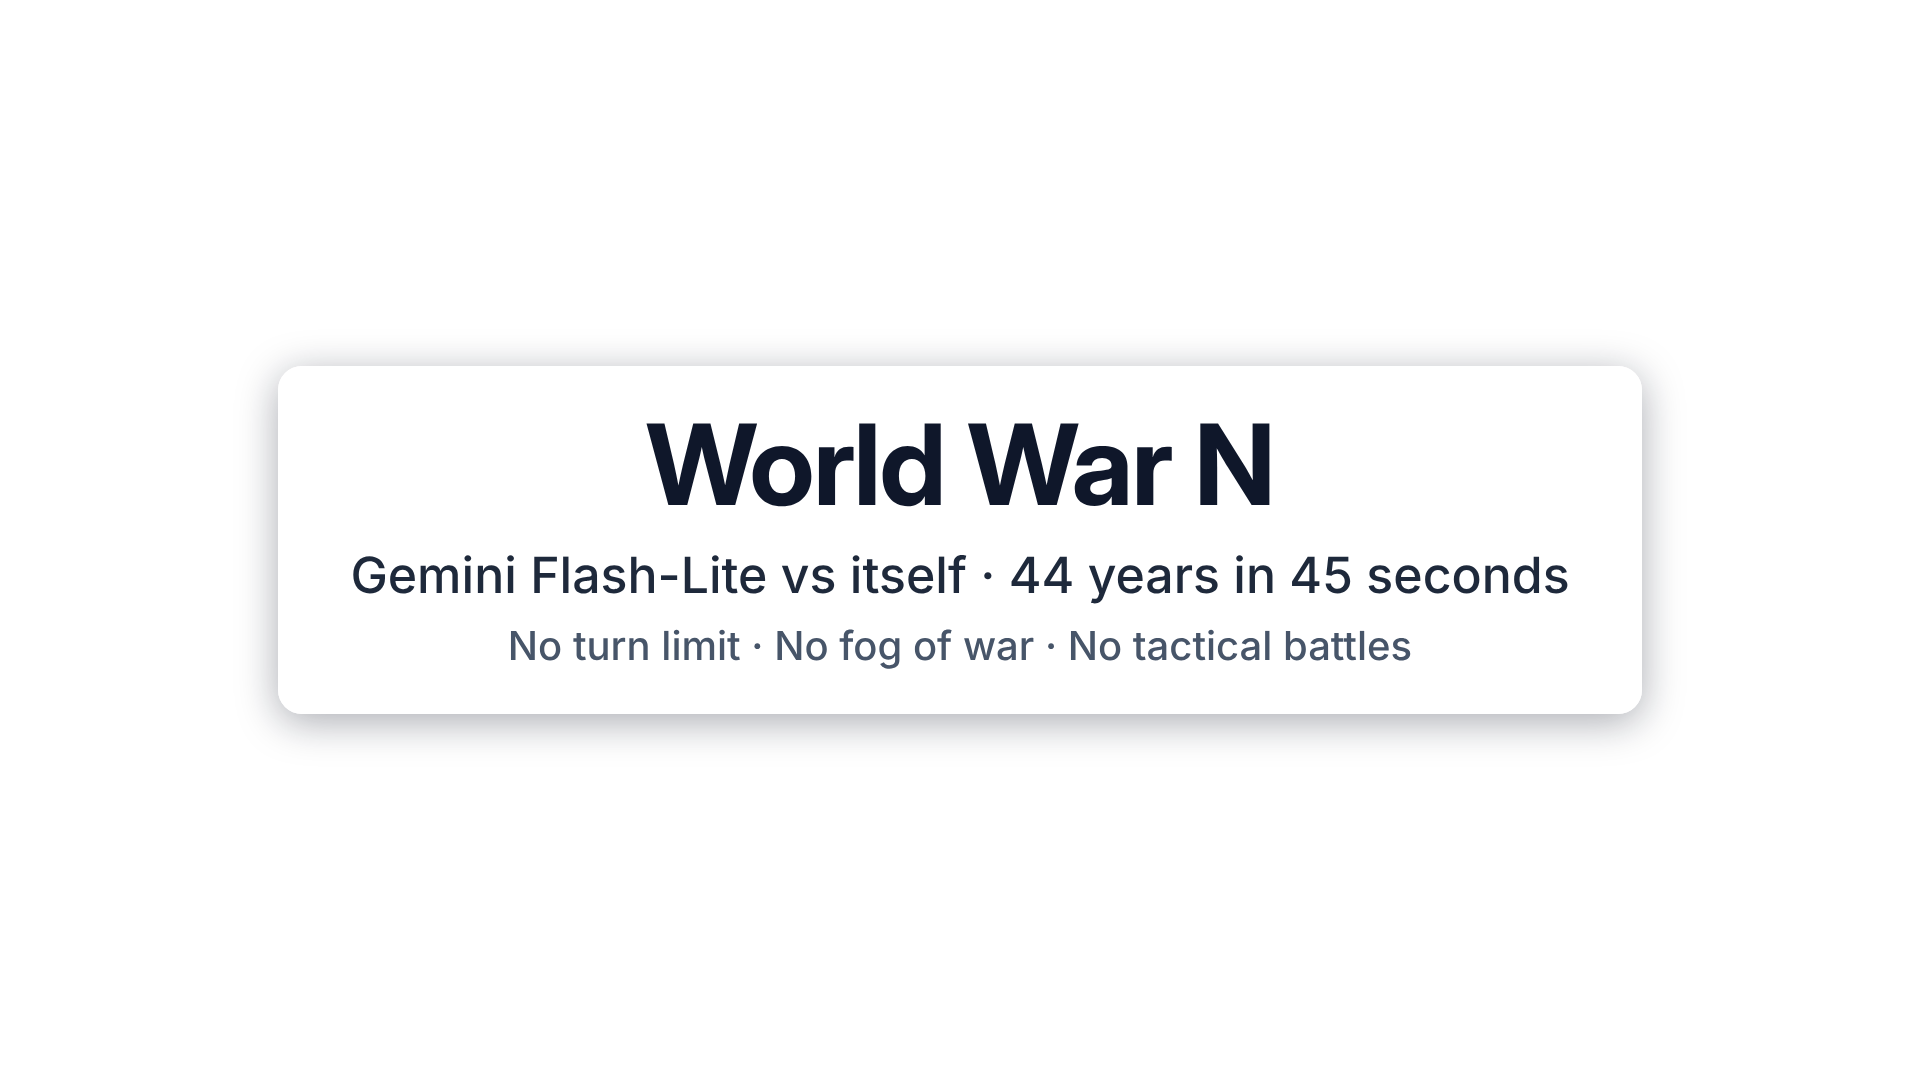
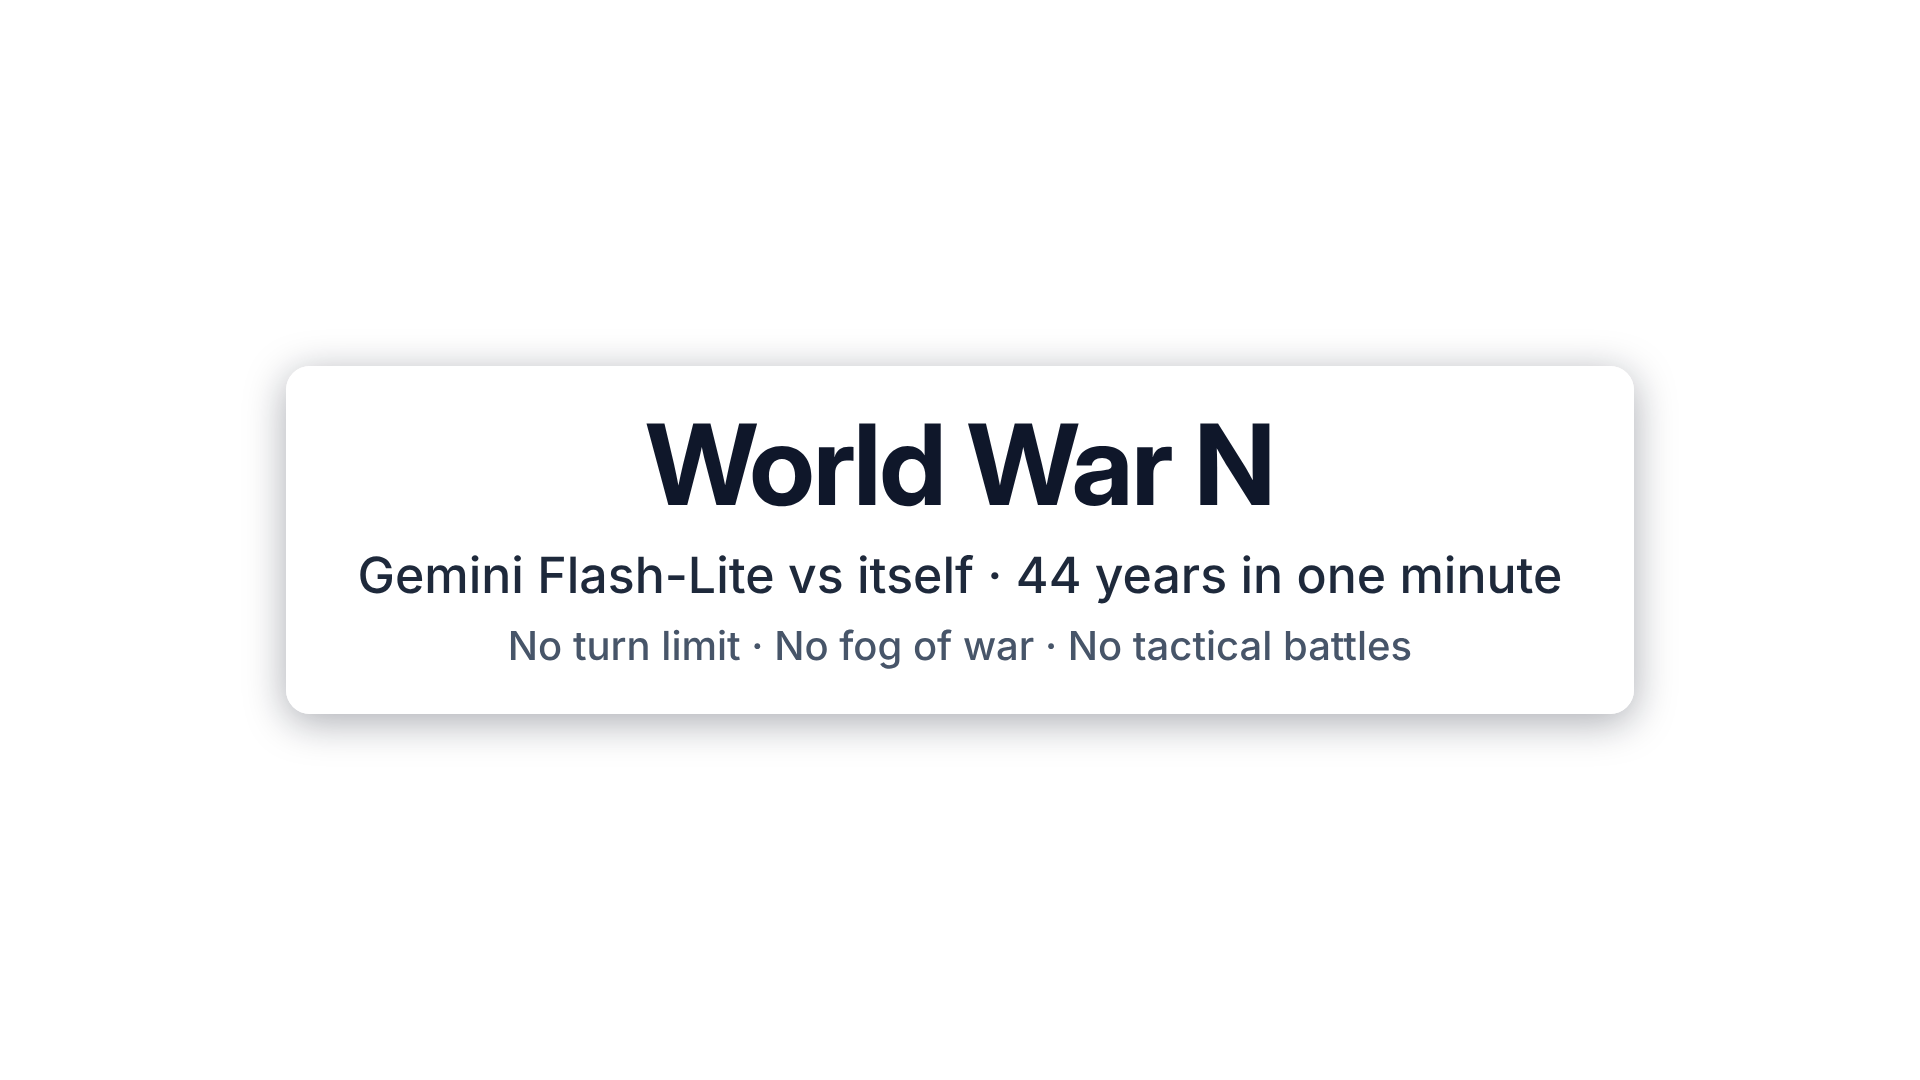
Script updates.

Changed region(s): [[0.1875, 0.5194, 0.8125, 0.55], [0.8438, 0.3667, 0.875, 0.6417], [0.125, 0.3667, 0.1562, 0.6417]]

diff --git a/scripts/match_video/titles/title_overlay_world_war_n.html b/scripts/match_video/titles/title_overlay_world_war_n.html
@@ -7,6 +7,6 @@ html,body{margin:0;width:1920px;height:1080px;background:transparent}
 .r{font-family:'Inter',sans-serif;font-weight:500;font-size:40px;color:#475569;margin-top:16px;white-space:nowrap}
 </style></head><body><div class="wrap"><div class="panel">
 <div class="h">World War N</div>
-<div class="s">Gemini Flash-Lite vs itself · 44 years in 45 seconds</div>
+<div class="s">Gemini Flash-Lite vs itself · 44 years in one minute</div>
 <div class="r">No turn limit · No fog of war · No tactical battles</div>
 </div></div></body></html>

diff --git a/scripts/match_video/keep_plan.py b/scripts/match_video/keep_plan.py
@@ -232,9 +232,16 @@ def build_keep_filter(
         When the plan does not cover the full timeline, so the picture must be re-encoded.
         A long match can have hundreds of stretches. One ``select`` expression runs out of
         memory while ffmpeg initializes it, so each stretch is its own ``trim``.
+        The source is read once. Naming ``[0:v]`` in every chain makes each chain a separate
+        graph input, and ffmpeg then holds decoded frames for every input that ``concat`` has
+        not reached yet, which grows with the source read until memory runs out or the encode
+        stalls. One flat ``split`` avoids that but sends every frame to every stretch, which is
+        slow with a thousand stretches. So stretches are grouped, about the square root of
+        their count per group, and each frame reaches only the group trims and its own group.
     What to expect:
-        A ``filter_complex`` graph labeled ``[out]``. Each stretch is ``trim`` then
-        ``setpts``, and ``concat`` joins them. The span that reaches the end of the file
+        A ``filter_complex`` graph labeled ``[out]``. One ``split`` feeds a ``trim`` per group,
+        and each group's ``split`` feeds its stretches. Each stretch is ``trim`` then ``setpts``,
+        and ``concat`` joins them in order. The span that reaches the end of the file
         is padded by one frame so rounding does not drop the last source frame.
         Kept frames are retimed to ``frames_per_second``.
     Exceptions:
@@ -247,17 +254,23 @@ def build_keep_filter(
     if frames_per_second <= 0:
         raise ValueError("frames_per_second must be positive.")
     frame_seconds = 1.0 / float(frames_per_second)
-    chains: list[str] = []
+    group_size = math.isqrt(len(spans) - 1) + 1
+    groups = [range(first, min(first + group_size, len(spans))) for first in range(0, len(spans), group_size)]
+    chains: list[str] = [f"[0:v]split={len(groups)}" + "".join(f"[g{number}]" for number in range(len(groups)))]
     labels: list[str] = []
-    for index, span in enumerate(spans):
-        end_seconds = span.end_seconds
-        if duration_seconds - end_seconds <= frame_seconds:
-            end_seconds += frame_seconds
-        label = f"v{index}"
-        labels.append(f"[{label}]")
+    for number, members in enumerate(groups):
+        ends = [_trim_end(spans[index], duration_seconds, frame_seconds) for index in members]
         chains.append(
-            f"[0:v]trim=start={span.start_seconds:.6f}:end={end_seconds:.6f},setpts=PTS-STARTPTS[{label}]"
+            f"[g{number}]trim=start={spans[members[0]].start_seconds:.6f}:end={ends[-1]:.6f},"
+            f"split={len(members)}" + "".join(f"[s{index}]" for index in members)
         )
+        for index, end_seconds in zip(members, ends):
+            label = f"v{index}"
+            labels.append(f"[{label}]")
+            chains.append(
+                f"[s{index}]trim=start={spans[index].start_seconds:.6f}:end={end_seconds:.6f},"
+                f"setpts=PTS-STARTPTS[{label}]"
+            )
     rate = format(float(frames_per_second), ".10f")
     joined = "".join(labels)
     graph = (
@@ -331,6 +344,21 @@ def _freeze_field(line: str) -> tuple[str | None, float | None]:
     if not math.isfinite(number):
         return None, None
     return kind.strip(), number
+
+
+def _trim_end(span: TimeSpan, duration_seconds: float, frame_seconds: float) -> float:
+    """
+    Why this exists:
+        Keep the last source frame when a stretch reaches the end of the file.
+    When to use:
+        For each stretch's ``trim`` end in ``build_keep_filter``.
+    What to expect:
+        The stretch's end, padded by one frame when it is within a frame of the file's end.
+    """
+
+    if duration_seconds - span.end_seconds <= frame_seconds:
+        return span.end_seconds + frame_seconds
+    return span.end_seconds
 
 
 def _merge_spans(spans: Sequence[TimeSpan], gap_seconds: float) -> list[TimeSpan]:

diff --git a/scripts/match_video/tests/test_keep_plan.py b/scripts/match_video/tests/test_keep_plan.py
@@ -98,6 +98,20 @@ class KeepPlanTests(unittest.TestCase):
         self.assertIn("concat=n=200:v=1:a=0", graph)
         self.assertNotIn("select=", graph)
 
+    def test_keep_filter_reads_the_source_once(self) -> None:
+        spans = [TimeSpan(float(index), float(index) + 0.4) for index in range(200)]
+        graph = build_keep_filter(spans, Fraction(10, 1), 200.0)
+        self.assertEqual(graph.count("[0:v]"), 1)
+        self.assertTrue(graph.startswith("[0:v]split=14[g0][g1]"))
+        self.assertIn("[g0]trim=start=0.000000:end=14.400000,split=15[s0]", graph)
+        self.assertIn("[s199]trim=start=199.000000:end=199.400000,setpts=PTS-STARTPTS[v199]", graph)
+        self.assertIn("".join(f"[v{index}]" for index in range(200)) + "concat=n=200", graph)
+
+    def test_single_span_still_builds_a_graph(self) -> None:
+        graph = build_keep_filter([TimeSpan(2.0, 3.0)], Fraction(10, 1), 10.0)
+        self.assertTrue(graph.startswith("[0:v]split=1[g0];[g0]trim=start=2.000000:end=3.000000,split=1[s0]"))
+        self.assertIn("concat=n=1:v=1:a=0", graph)
+
     def test_bad_duration_is_rejected(self) -> None:
         with self.assertRaises(ValueError):
             build_keep_intervals(0.0, [], 1.0, 0.1)
